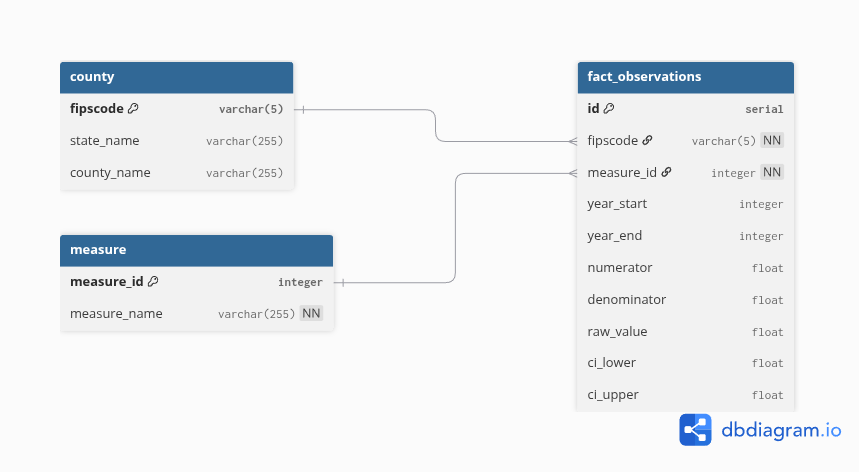
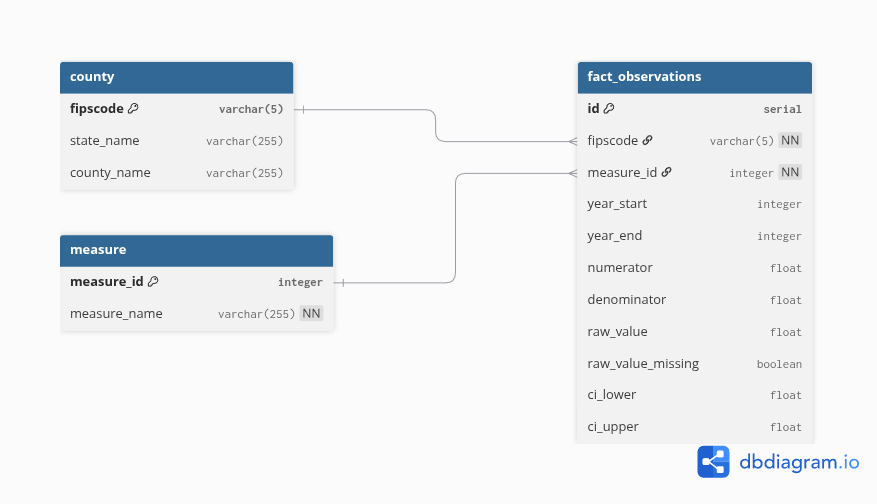
updated schema, db diagram, and finished loading portion of script

diff --git a/load_data.py b/load_data.py
@@ -1,6 +1,10 @@
 # Cleaning data and loading it into a database
 import pandas as pd
 from sqlalchemy import create_engine
+import os
+from dotenv import load_dotenv
+
+load_dotenv()
 
 def load_data(file_path, db_url, table_name):
     # ----Cleaning---- #
@@ -32,4 +36,25 @@ def load_data(file_path, db_url, table_name):
         'State': 'state_name',
         'County': 'county_name'})
     
+    # Saving cleaned data to a new CSV file
+    df.to_csv('data/cleaned_county_health_rankings.csv', index=False)
+    
     # ----Loading---- #
+    # Create a SQLAlchemy engine
+    engine = create_engine(db_url)
+
+    # Build 3 dataframes for the 3 tables
+    county_df = df[['fipscode', 'state_name', 'county_name']].drop_duplicates()
+    measure_df = df[['measure_id', 'measure_name']].drop_duplicates()
+    fact_observations_df = df[['fipscode', 'measure_id', 'year_start', 'year_end', 'numerator', 'denominator', 'raw_value', 'raw_value_missing', 'ci_lower', 'ci_upper']]
+
+    # Loading tables in order
+    county_df.to_sql('county', con=engine, if_exists='append', index=False)
+    measure_df.to_sql('measure', con=engine, if_exists='append', index=False)
+    fact_observations_df.to_sql('fact_observations', con=engine, if_exists='append', index=False)
+
+# Calling the function
+if __name__ == '__main__':
+    load_data('data/County_Health_Rankings.csv', os.getenv('DATABASE_URL'), None)
+
+